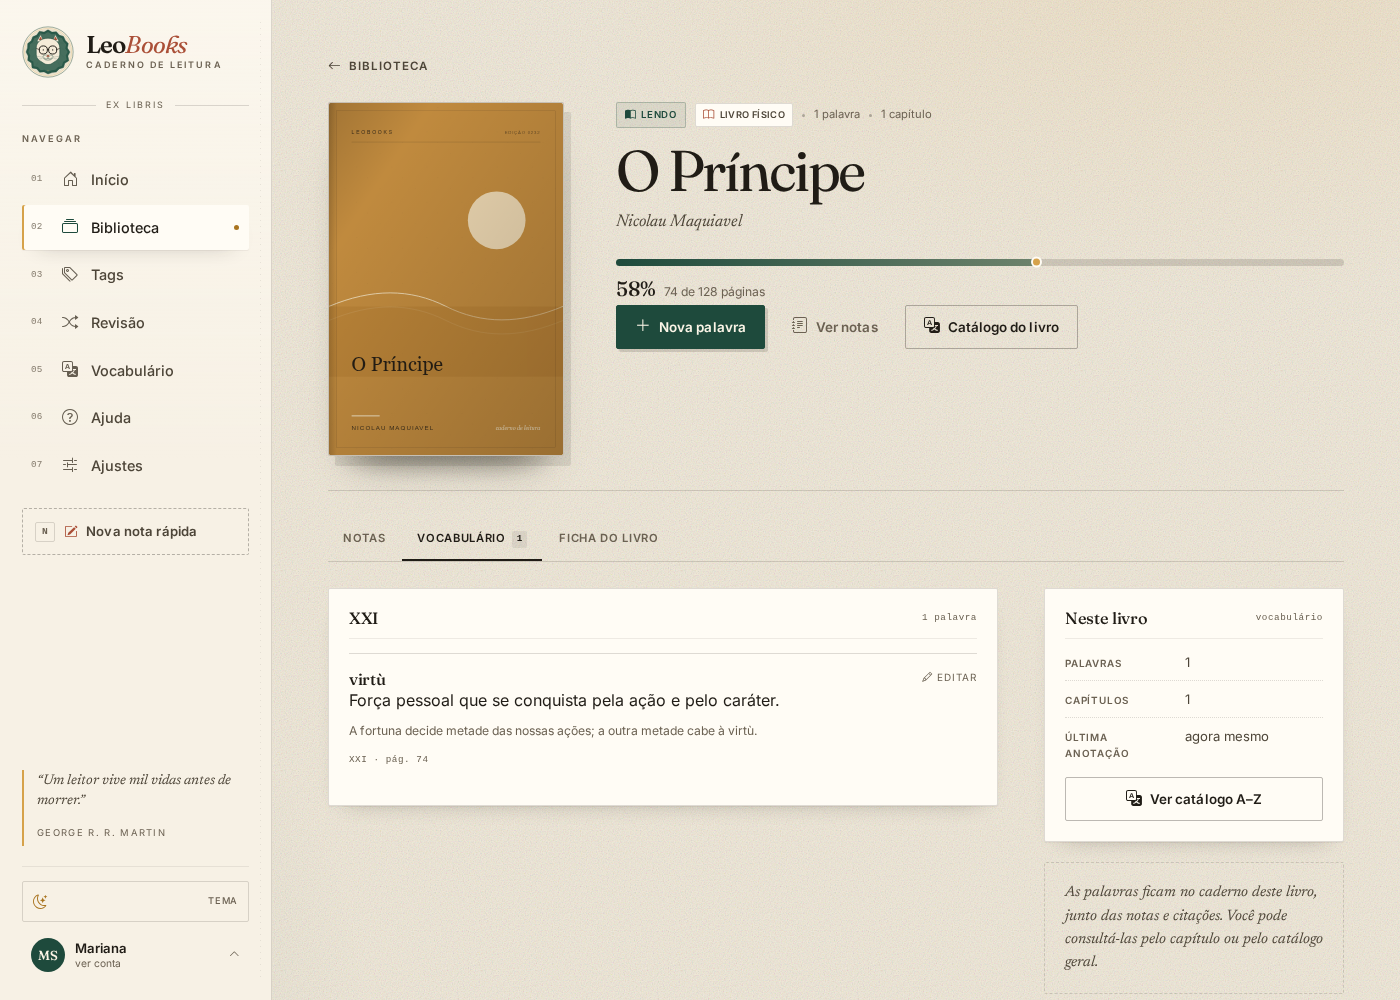
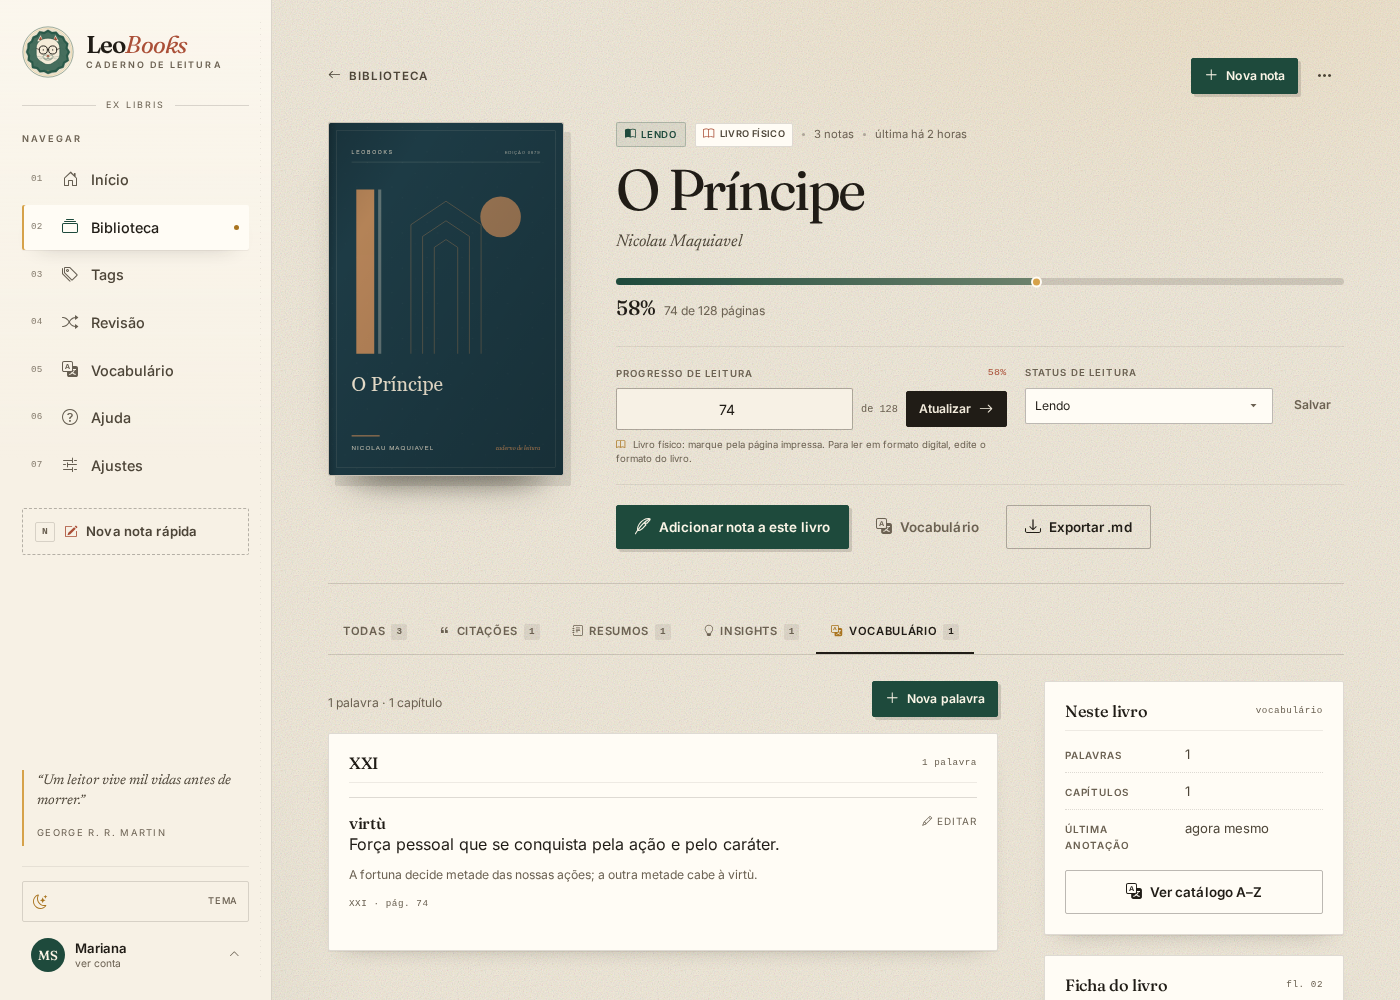
integrate vocabulary into book detail tabs

diff --git a/templates/book_detail.html b/templates/book_detail.html
@@ -155,7 +155,7 @@
               data-book-id="{{ book.id }}" data-note-type="QUOTE">
         <i class="bi bi-feather"></i> Adicionar nota a este livro
       </button>
-      <a class="lb-btn lb-btn--quiet" href="{{ url_for('books.vocabulary', book_id=book.id) }}">
+      <a class="lb-btn lb-btn--quiet" href="{{ url_for('books.detail', book_id=book.id, tab='vocabulary') }}">
         <i class="bi bi-translate"></i> Vocabulário
       </a>
       <a class="lb-btn lb-btn--ghost" href="{{ url_for('settings.export_book', book_id=book.id) }}">
@@ -165,20 +165,80 @@
   </div>
 </header>
 
-<nav class="lb-tabs" aria-label="Filtrar notas por tipo">
-  <a class="lb-tab {{ 'is-active' if type_filter == 'ALL' }}"
+<nav class="lb-tabs" aria-label="Seções e filtros do livro">
+  <a class="lb-tab {{ 'is-active' if not tab and type_filter == 'ALL' }}"
      href="{{ url_for('books.detail', book_id=book.id) }}">
     Todas <span>{{ counts.ALL }}</span>
   </a>
   {% for key, meta in note_types.items() %}
-    <a class="lb-tab lb-tab--{{ meta.tone }} {{ 'is-active' if type_filter == key }}"
+    <a class="lb-tab lb-tab--{{ meta.tone }} {{ 'is-active' if not tab and type_filter == key }}"
        href="{{ url_for('books.detail', book_id=book.id, type=key) }}">
       <i class="bi {{ meta.icon }}"></i> {{ meta.plural }} <span>{{ counts[key] }}</span>
     </a>
   {% endfor %}
+  <a class="lb-tab {{ 'is-active' if tab == 'vocabulary' }}"
+     href="{{ url_for('books.detail', book_id=book.id, tab='vocabulary') }}">
+    <i class="bi bi-translate"></i> Vocabulário <span>{{ word_count }}</span>
+  </a>
 </nav>
 
 <div class="lb-detail-grid">
+  {% if tab == 'vocabulary' %}
+  <section class="lb-notes" aria-label="Vocabulário do livro">
+    <div class="d-flex flex-wrap justify-content-between align-items-center gap-2">
+      <p class="lb-hint mb-0">
+        {{ word_count }} {% if word_count == 1 %}palavra{% else %}palavras{% endif %}
+        {% if chapter_count %}· {{ chapter_count }} {% if chapter_count == 1 %}capítulo{% else %}capítulos{% endif %}{% endif %}
+      </p>
+      <a class="lb-btn lb-btn--primary lb-btn--sm"
+         href="{{ url_for('main.vocabulary', book_id=book.id) }}#nova-palavra">
+        <i class="bi bi-plus-lg"></i> Nova palavra
+      </a>
+    </div>
+
+    {% if groups %}
+      {% for chapter, entries in groups %}
+        <section class="lb-panel">
+          <header class="lb-panel__head">
+            <h2 class="lb-panel__title">{{ chapter }}</h2>
+            <span class="lb-panel__folio">{{ entries|length }} {% if entries|length == 1 %}palavra{% else %}palavras{% endif %}</span>
+          </header>
+          {% for entry in entries %}
+            <div class="d-flex flex-wrap justify-content-between gap-3 py-3 border-top">
+              <div class="flex-grow-1">
+                <h3 class="lb-panel__title">{{ entry.word }}</h3>
+                <p class="mb-1">{{ entry.definition|replace('
+', ' · ') }}</p>
+                {% if entry.context %}
+                  <p class="lb-hint mb-1">{{ entry.context }}</p>
+                {% endif %}
+                <span class="lb-panel__folio">
+                  {% if entry.chapter %}{{ entry.chapter }}{% endif %}
+                  {% if entry.chapter and entry.page_number is not none %} · {% endif %}
+                  {% if entry.page_number is not none %}pág. {{ entry.page_number }}{% endif %}
+                </span>
+              </div>
+              <a class="lb-panel__link"
+                 href="{{ url_for('main.vocabulary_edit', word_id=entry.id, next=url_for('books.detail', book_id=book.id, tab='vocabulary')) }}">
+                <i class="bi bi-pencil"></i> Editar
+              </a>
+            </div>
+          {% endfor %}
+        </section>
+      {% endfor %}
+    {% else %}
+      <div class="lb-empty lb-empty--wide">
+        <span class="lb-empty__mark"><i class="bi bi-translate"></i></span>
+        <h2 class="lb-empty__title">As palavras deste livro ainda estão esperando.</h2>
+        <p>Quando uma palavra interromper a leitura, anote a definição e o capítulo em que ela apareceu.</p>
+        <a class="lb-btn lb-btn--primary"
+           href="{{ url_for('main.vocabulary', book_id=book.id) }}#nova-palavra">
+          <i class="bi bi-plus-lg"></i> Adicionar primeira palavra
+        </a>
+      </div>
+    {% endif %}
+  </section>
+  {% else %}
   <section class="lb-notes" aria-label="Notas do livro">
     {% for note in notes %}
       {{ note_card(note) }}
@@ -213,8 +273,26 @@
       </div>
     {% endif %}
   </section>
+  {% endif %}
 
   <aside class="lb-rail lb-rail--detail" id="ficha">
+    {% if tab == 'vocabulary' %}
+      <section class="lb-panel">
+        <header class="lb-panel__head">
+          <h2 class="lb-panel__title">Neste livro</h2>
+          <span class="lb-panel__folio">vocabulário</span>
+        </header>
+        <dl class="lb-facts">
+          <div><dt>Palavras</dt><dd>{{ word_count }}</dd></div>
+          <div><dt>Capítulos</dt><dd>{{ chapter_count }}</dd></div>
+          <div><dt>Última anotação</dt><dd>{% if last_word %}{{ last_word.updated_at|tempo_atras }}{% else %}—{% endif %}</dd></div>
+        </dl>
+        <a class="lb-btn lb-btn--ghost lb-btn--block mt-3"
+           href="{{ url_for('main.vocabulary', book_id=book.id) }}">
+          <i class="bi bi-translate"></i> Ver catálogo A–Z
+        </a>
+      </section>
+    {% endif %}
     <section class="lb-panel">
       <header class="lb-panel__head">
         <h2 class="lb-panel__title">Ficha do livro</h2>

diff --git a/routes.py b/routes.py
@@ -1095,39 +1095,8 @@ def cover_lookup():
     )
 
 
-@books_bp.route("/books/<book_id>")
-@login_required
-def detail(book_id: str):
-    book = _owned_book(book_id)
-    _touch_book(book)
-    type_filter = (request.args.get("type") or "ALL").upper()
-    if type_filter not in NOTE_TYPES:
-        type_filter = "ALL"
-
-    notes = book.notes
-    if type_filter != "ALL":
-        notes = [note for note in notes if note.type == type_filter]
-
-    counts = {
-        "ALL": len(book.notes),
-        "QUOTE": book.quote_count,
-        "SUMMARY": book.summary_count,
-        "INSIGHT": book.insight_count,
-    }
-    return render_template(
-        "book_detail.html",
-        book=book,
-        notes=notes,
-        type_filter=type_filter,
-        counts=counts,
-    )
-
-
-@books_bp.route("/books/<book_id>/vocabulary")
-@login_required
-def vocabulary(book_id: str):
-    book = _owned_book(book_id)
-    _touch_book(book)
+def _book_vocabulary(book: Book) -> tuple[list[tuple[str, list[VocabularyWord]]], list[VocabularyWord]]:
+    """Agrupa as palavras do livro por capítulo, na ordem de leitura."""
     words = (
         VocabularyWord.query.filter_by(
             user_id=current_user().id, book_id=book.id
@@ -1154,21 +1123,59 @@ def vocabulary(book_id: str):
             groups.append((label, [word]))
         else:
             groups[-1][1].append(word)
-    chapter_count = len({word.chapter for word in words if word.chapter})
+    return groups, words
+
+
+@books_bp.route("/books/<book_id>")
+@login_required
+def detail(book_id: str):
+    book = _owned_book(book_id)
+    _touch_book(book)
+    tab = (request.args.get("tab") or "").strip().lower()
+    if tab != "vocabulary":
+        tab = ""
+    type_filter = (request.args.get("type") or "ALL").upper()
+    if type_filter not in NOTE_TYPES:
+        type_filter = "ALL"
+
+    notes = book.notes
+    if type_filter != "ALL":
+        notes = [note for note in notes if note.type == type_filter]
+
+    groups, book_words = _book_vocabulary(book)
+    chapter_count = len({word.chapter for word in book_words if word.chapter})
     last_word = max(
-        words,
+        book_words,
         key=lambda item: item.updated_at or item.created_at,
         default=None,
     )
+    counts = {
+        "ALL": len(book.notes),
+        "QUOTE": book.quote_count,
+        "SUMMARY": book.summary_count,
+        "INSIGHT": book.insight_count,
+    }
     return render_template(
-        "book_vocabulary.html",
+        "book_detail.html",
         book=book,
+        notes=notes,
+        type_filter=type_filter,
+        counts=counts,
+        tab=tab,
         groups=groups,
-        words=words,
-        word_count=len(words),
+        book_words=book_words,
+        word_count=len(book_words),
         chapter_count=chapter_count,
         last_word=last_word,
     )
+
+
+@books_bp.route("/books/<book_id>/vocabulary")
+@login_required
+def vocabulary(book_id: str):
+    """Rota antiga mantida como redirecionamento para a aba do livro."""
+    _owned_book(book_id)
+    return redirect(url_for("books.detail", book_id=book_id, tab="vocabulary"))
 
 
 @books_bp.route("/books/<book_id>/progress", methods=["POST"])

diff --git a/tests/test_vocabulary.py b/tests/test_vocabulary.py
@@ -173,7 +173,7 @@ def test_vocabulary_is_filtered_by_book_and_linked_from_book(app, auth_client, b
     assert book["title"] in html
 
     detail = auth_client.get(f"/books/{book['id']}").get_data(as_text=True)
-    assert f"/books/{book['id']}/vocabulary" in detail
+    assert f"/books/{book['id']}?tab=vocabulary" in detail
 
 
 def test_vocabulary_migration_adds_location_columns(app):
@@ -312,7 +312,13 @@ def test_book_vocabulary_page_groups_by_chapter(app, auth_client, book):
             },
         )
 
-    page = auth_client.get(f"/books/{book['id']}/vocabulary")
+    legacy = auth_client.get(
+        f"/books/{book['id']}/vocabulary", follow_redirects=False
+    )
+    assert legacy.status_code == 302
+    assert "tab=vocabulary" in legacy.headers["Location"]
+
+    page = auth_client.get(f"/books/{book['id']}?tab=vocabulary")
     assert page.status_code == 200
     html = page.get_data(as_text=True)
     assert "XXI" in html

diff --git a/scripts/generate_screenshots.py b/scripts/generate_screenshots.py
@@ -330,7 +330,7 @@ def main() -> None:
         page.wait_for_timeout(500)
         shot(page, "livro")
 
-        page.goto(f"{BASE}/books/{ids['book_id']}/vocabulary", wait_until="networkidle")
+        page.goto(f"{BASE}/books/{ids['book_id']}?tab=vocabulary", wait_until="networkidle")
         page.wait_for_timeout(500)
         shot(page, "vocabulario-livro")
 
